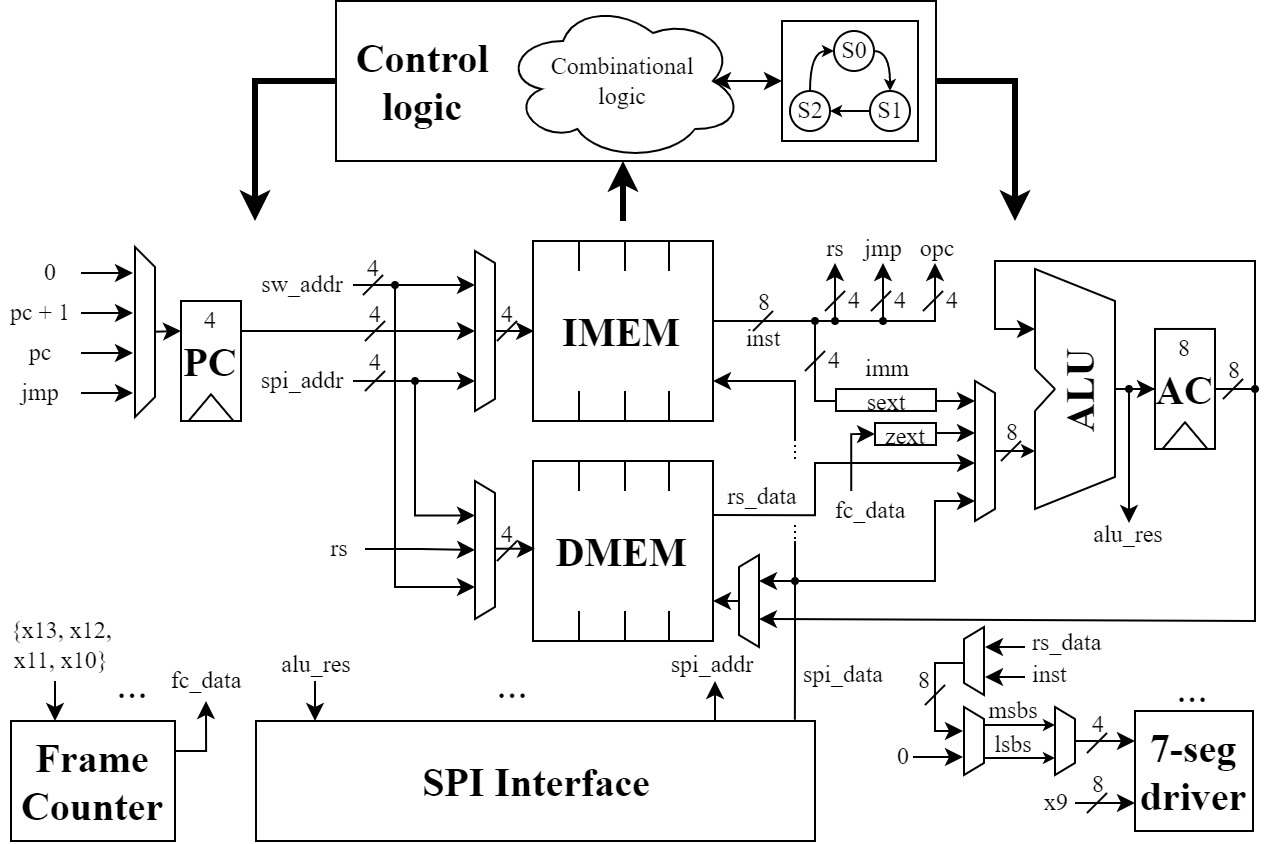
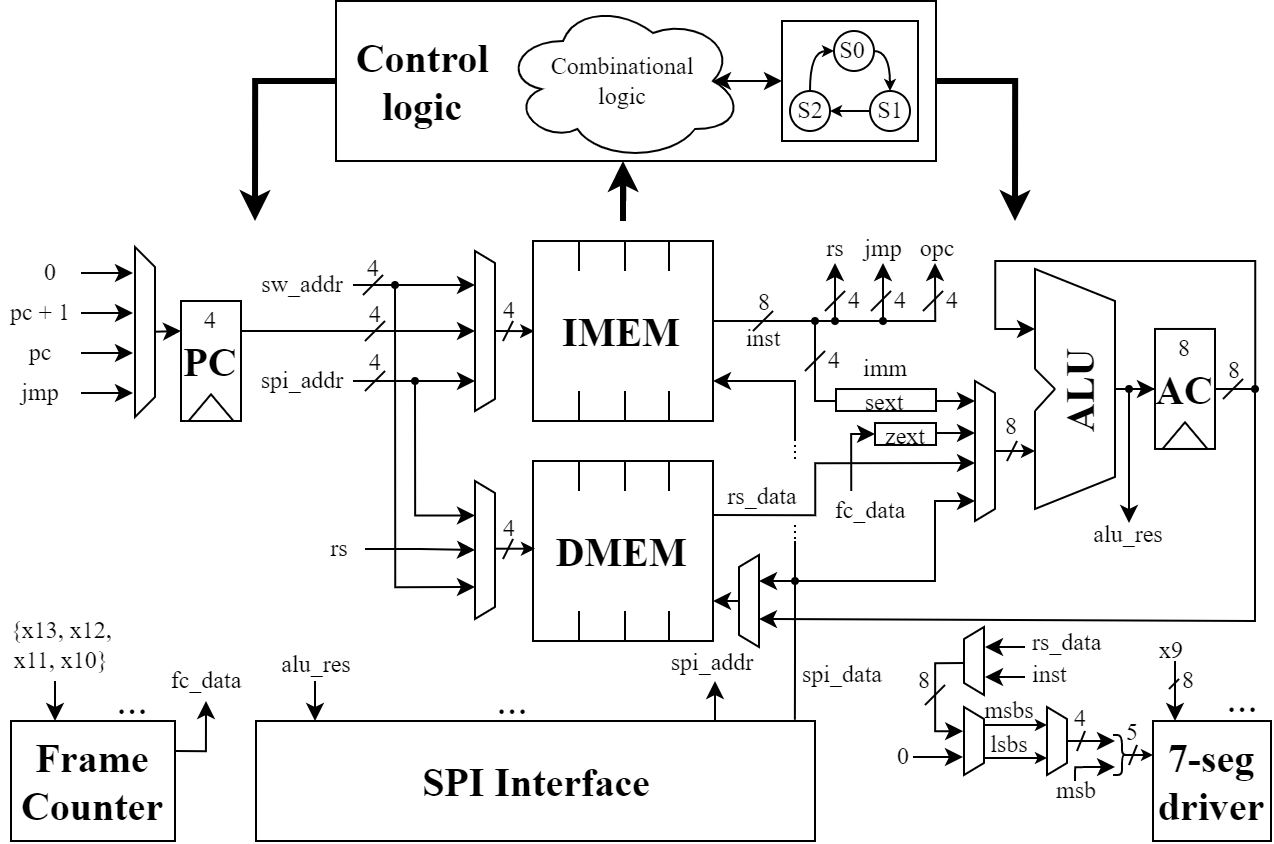
Doc update

diff --git a/README.md b/README.md
@@ -47,13 +47,13 @@ The accumulator register is an extra 8-bit register used as source and destinati
 | Instruction | Action |
 | :-----------: | :-----------: |
 | la  x5 | $acc \leftarrow x5$ |
-| add x6 | $acc \leftarrow acc + x6$ |
+| add x11 | $acc \leftarrow acc + x11$ |
 | sa  x0 | $x0  \leftarrow acc$ |
 | spiw x0| $x0  \rightarrow spi\ write$ |
 
 ## Compiler
 
-To ease the task of writting programs for the processor, we developed a Python compiler script, located in the `compiler` directory. The script takes as input a .tp file and a format field (`-f` flag; hex (default), bin, dec), and outputs an executable .mem file. Below we demonstrate step-by-step how to create an executable that animates the seven segment display in a circular pattern.
+To ease the task of writting programs for the processor, we developed a Python compiler script, located in the `compiler` directory. The script takes as input a `.tp` file and a format field (`-f` flag; hex (default), bin, dec), and outputs an executable .mem file. Below we demonstrate step-by-step, how to create an executable that animates the seven segment display in a circular pattern.
 
 ### Go to the compiler directory
 ```
@@ -62,7 +62,7 @@ $ cd <path-to-git-dir>/compiler
 ### Create a .tp file
 
 ```
-$ vi s7.tp
+$ vi anim0.tp
 ```
 
 File contents:
@@ -90,28 +90,28 @@ j main
 Manually:
 
 ```
-$ python c.py s7.tp -f hex
+$ python c.py anim0.tp -f hex
 ```
 
 Using bash script:
 
 ```
 $ ./c.sh
-$ File name: s7.tp
+$ File name: anim0.tp
 $ Format: hex
 ```
 
 ### Create a dummy.mem file
 
 ```
-$ vi dummy.mem
+$ vi anim0d.mem
 ```
 
 File contents:
 
 ```
 1
-80
+20
 0
 0
 0
@@ -120,34 +120,38 @@ File contents:
 0
 0
 1
-10
-0
-0
-0
+40
+78
+7D
+01
 0
 0
 ```
 
 #### Note
-Only register $x0-x13$ can be initialized w/ the .mem file. The last 2 registers are read-only registers.
+Only register $x0-x13$ can be initialized w/ the `.mem` file. The last 2 registers are read-only registers. The 32-bit value
+`0x017D7840` is the clock ticks between consecutive frames.
 
 ### Use of .mem files 
 
-The s7.mem file can be used to initialize the `imem` variable of the driver. Simply insert the file path of the generated .mem file in the corresponding **$readmemh** macro located in the driver.sv module.
+The `anim0.mem` file can be used to initialize the `imem` variable of the driver. Simply insert the file path of the generated `.mem` file in the corresponding **$readmemh** macro located in the driver.sv module.
 
 ```
 logic[7:0] imem[16];
 logic[7:0] dmem[16];
 
-initial $readmemh("<path>/s7.mem   ", imem);
-initial $readmemh("<path>/dummy.mem", dmem);
+initial $readmemh("<path>/anim0.mem ", imem);
+initial $readmemh("<path>/anim0d.mem", dmem);
 ```
 
-The `dummy.mem` file is an initialization file for the registers;
+The `anim0d.mem` file is an initialization file for the registers;
   - $x0 \leftarrow 8'h01$
-  - $x1 \leftarrow 8'h80$
+  - $x1 \leftarrow 8'h20$
   - $x9 \leftarrow 8'h01$
-  - $x10 \leftarrow 8'h10$
+  - $x10 \leftarrow 8'h40$
+  - $x11 \leftarrow 8'h78$
+  - $x12 \leftarrow 8'h7D$
+  - $x13 \leftarrow 8'h01$
   - $other \leftarrow 8'h00$
 
 ## Hardware
@@ -159,7 +163,7 @@ Below is a schematic that shows all the inputs and outputs the processor design 
 <p align=center> <img src="figs/TP-IO.png" alt="figs/TP-IO.png" width="800"/> </p>
 
 #### Switches ( ui_in[7:0] )
-- **SW[0]**: Switch the display on/off. When the display is off the 7-segment display freezes at the zero value. When it is on, the value of SW[5:2] is fed as an address to both memories of the processor to display their contents.
+- **SW[0]**: Switch the display on/off. When the display is off the 7-segment display freezes at the zero value. When it is on, the value of SW [5:2] is fed as an address to both memories of the processor to display their contents.
 - **SW[1]**: When this switch is on, bits[7:4] of a byte are displayed, and when it's off, bits[3:0] are displayed.
 - **SW[5:2]**: These provide the register's address when SW[0] is on. All registers that can be used as a GPR register can be displayed.
 - **SW[6]**: When this switch is turned on, data from the instruction memory is displayed. When it's off, data from the register file is shown.
@@ -180,6 +184,13 @@ These are directly connected to each segment of the 7-segment display
 Tiny processor is a single-cycle processor with an 8-bit architecture. Its uarchitecture schematic is shown below.
 
 <p align=center> <img src="figs/TP-uARCH.png" alt="figs/TP-uARCH.png" width="1000"/> </p>
+
+Below is the mapping between the signals from the **DATAPATH** image and the **IO** image.
+
+| Datapath | IO |
+| :------: | :------: |
+| sw_addr | ui_in[5:2] |
+| msb | ui_in[1] |
 
 #### Program counter
 
@@ -206,9 +217,9 @@ The schematic of the memory modules is shown below.
 
 <p align=center> <img src="figs/TP-MEM.png" alt="figs/TP-MEM.png" width="500"/> </p>
 
-The DMEM module broadcasts register $x9$ through the `anim_reg` output and registers $x10-x13$ through `frame_cntr_data` output. IMEM does not use these output signals and outputs a zero value.
+The DMEM module broadcasts register $x9$ through the `anim_reg` output and registers $x10-x13$ through `frame_cntr_data` output. IMEM does not use these output signals and outputs a zero values.
 
-Below is the mapping between the signals in the **DATAPATH** image and the **MEM** image.
+Below is the mapping between the signals from the **DATAPATH** image and the **MEM** image.
 
 | Datapath | IMEM | DMEM |
 | :------: | :------: | :------: |
@@ -221,20 +232,19 @@ Below is the mapping between the signals in the **DATAPATH** image and the **MEM
 
 The first operand and destination of the ALU-unit is always the accumulator register. The second can alternate between;
   1. `sext imm` This is a 8-bit sign extented immediate encoded in the instruction
-  2. `fc_data` This is a single bit value from the frame counter module that indicates the transition between frames
-  3. It is zero-extented to 8 bits
-  4. `rs_data` This is a value from the register file. It is used when an instruction indexes registers $x0-x13$.
-  5. `spi_data` When an instruction indexes the SPI register ($x14$) this operand is chosen
+  2. `fc_data` This is a single bit value from the frame counter module that indicates the transition between frames. It is zero-extented to 8 bits.
+  1. `rs_data` This is a value from the register file. It is used when an instruction indexes registers $x0-x13$.
+  2. `spi_data` When an instruction indexes the SPI register ($x14$) this operand is chosen
 
 ### Frame counter
 
-The input data to the frame counter module is the combination of registers $x10-x11$, that form a 32-bit value. The output single bit value is the so called pseudo register ($x15$). It is enabled (negative enable) at the transition between frames. The diagram of the module is shown in the image below.
+The input data to the frame counter module is the combination of registers $x10-x13$, that form a 32-bit value. The output single bit value is the so called pseudo register ($x15$). It is enabled (negative enable) at the transition between frames. The diagram of the module is shown in the image below.
 
 <p align=center> <img src="figs/TP-FC.png" alt="figs/TP-FC.png" width="500"/> </p>
 
 The global reset signal `rst`, sets the counter to the 0 value. During normal execution if the signal `ctrl_rst` is enabled the counter is reset to the 32-bit `data` input. Otherwise it decreases by one each clock cycle. When it reaches the 0 value it stays there until it is reset by the control logic through the `ctrl_rst` signal. The output `sig` signal is 0 only when the counter reaches 0.
 
-Below is the mapping between the signals in the **DATAPATH** image and the **FRAME COUNTER** image.
+Below is the mapping between the signals from the **DATAPATH** image and the **FRAME COUNTER** image.
 
 | Datapath | Frame counter |
 | :------: | :------: |
@@ -247,7 +257,7 @@ The schematic of the module is shown below.
 
 <p align=center> <img src="figs/TP-SPI.png" alt="figs/TP-SPI.png" width="1000"/> </p>
 
-Below is the mapping between the signals in the **DATAPATH** image and the **SPI INTERFACE** image.
+Below is the mapping between the signals from the **DATAPATH** image and the **SPI INTERFACE** image.
 
 | Datapath | SPI Interface |
 | :------: | :------: |
@@ -274,7 +284,7 @@ Once the counter's value reaches 1, it indicates that all bits have been receive
 
 #### Shift register
 
-The shift register stores the data that is about to be sent or received via SPI protocol. When the request is a `read` or when the driver module initializes the processor the each bit received is shifted into the shift register from its `sdata` input. All bits of the shift register are read in parallel (`buffer`). When the processor requests a write to an external device a GPR register is written to the shift register via its `data` input. It is then sent bit by bit thtough the `mosi` IO of the module. The shift register alias is $x14$.
+The shift register stores the data that is about to be sent or received via SPI protocol. When the request is a `read` or when the driver module initializes the processor the each bit received is shifted into the shift register from its `sdata` input. All bits of the shift register are read in parallel (`buffer`). When the processor requests a write to an external device a GPR register is written to the shift register via its `data` input. It is then sent bit by bit through the `mosi` IO of the module. The shift register alias is $x14$.
 
 #### Phase shift register
 
@@ -286,4 +296,14 @@ The diagram for the 7-segment driver is shown below.
 
 <p align=center> <img src="figs/TP-7-seg.png" alt="figs/TP-7-seg.png" width="500"/> </p>
 
-The combinational logic cluster handles the convertion of the 5-bit input `value` to the corresponding 8-bit 7-segment signal pattern. If the animation is enabled (SW[7] is on) the `bit_array` input is broadcast to the 7-segment display through the `out` IO. If the animation is disabled, the signal pattern is broadcast.
+The combinational logic cluster handles the convertion of the 5-bit input `value` to the corresponding 8-bit 7-segment signal pattern. If the animation is enabled (SW[7] is on) the `bit_array` input is forwarded to the 7-segment display through the `out` IO. If the animation is disabled, the signal pattern is forwarded.
+
+Below is the mapping between the signals from the **DATAPATH**, **IO** images and the **7-SEG DRIVER** image.
+
+| Datapath | 7-seg driver |
+| :------: | :------: |
+| 5-bit input | data |
+| x9 | bit_array |
+| ui_in[7] | anim_en |
+
+
